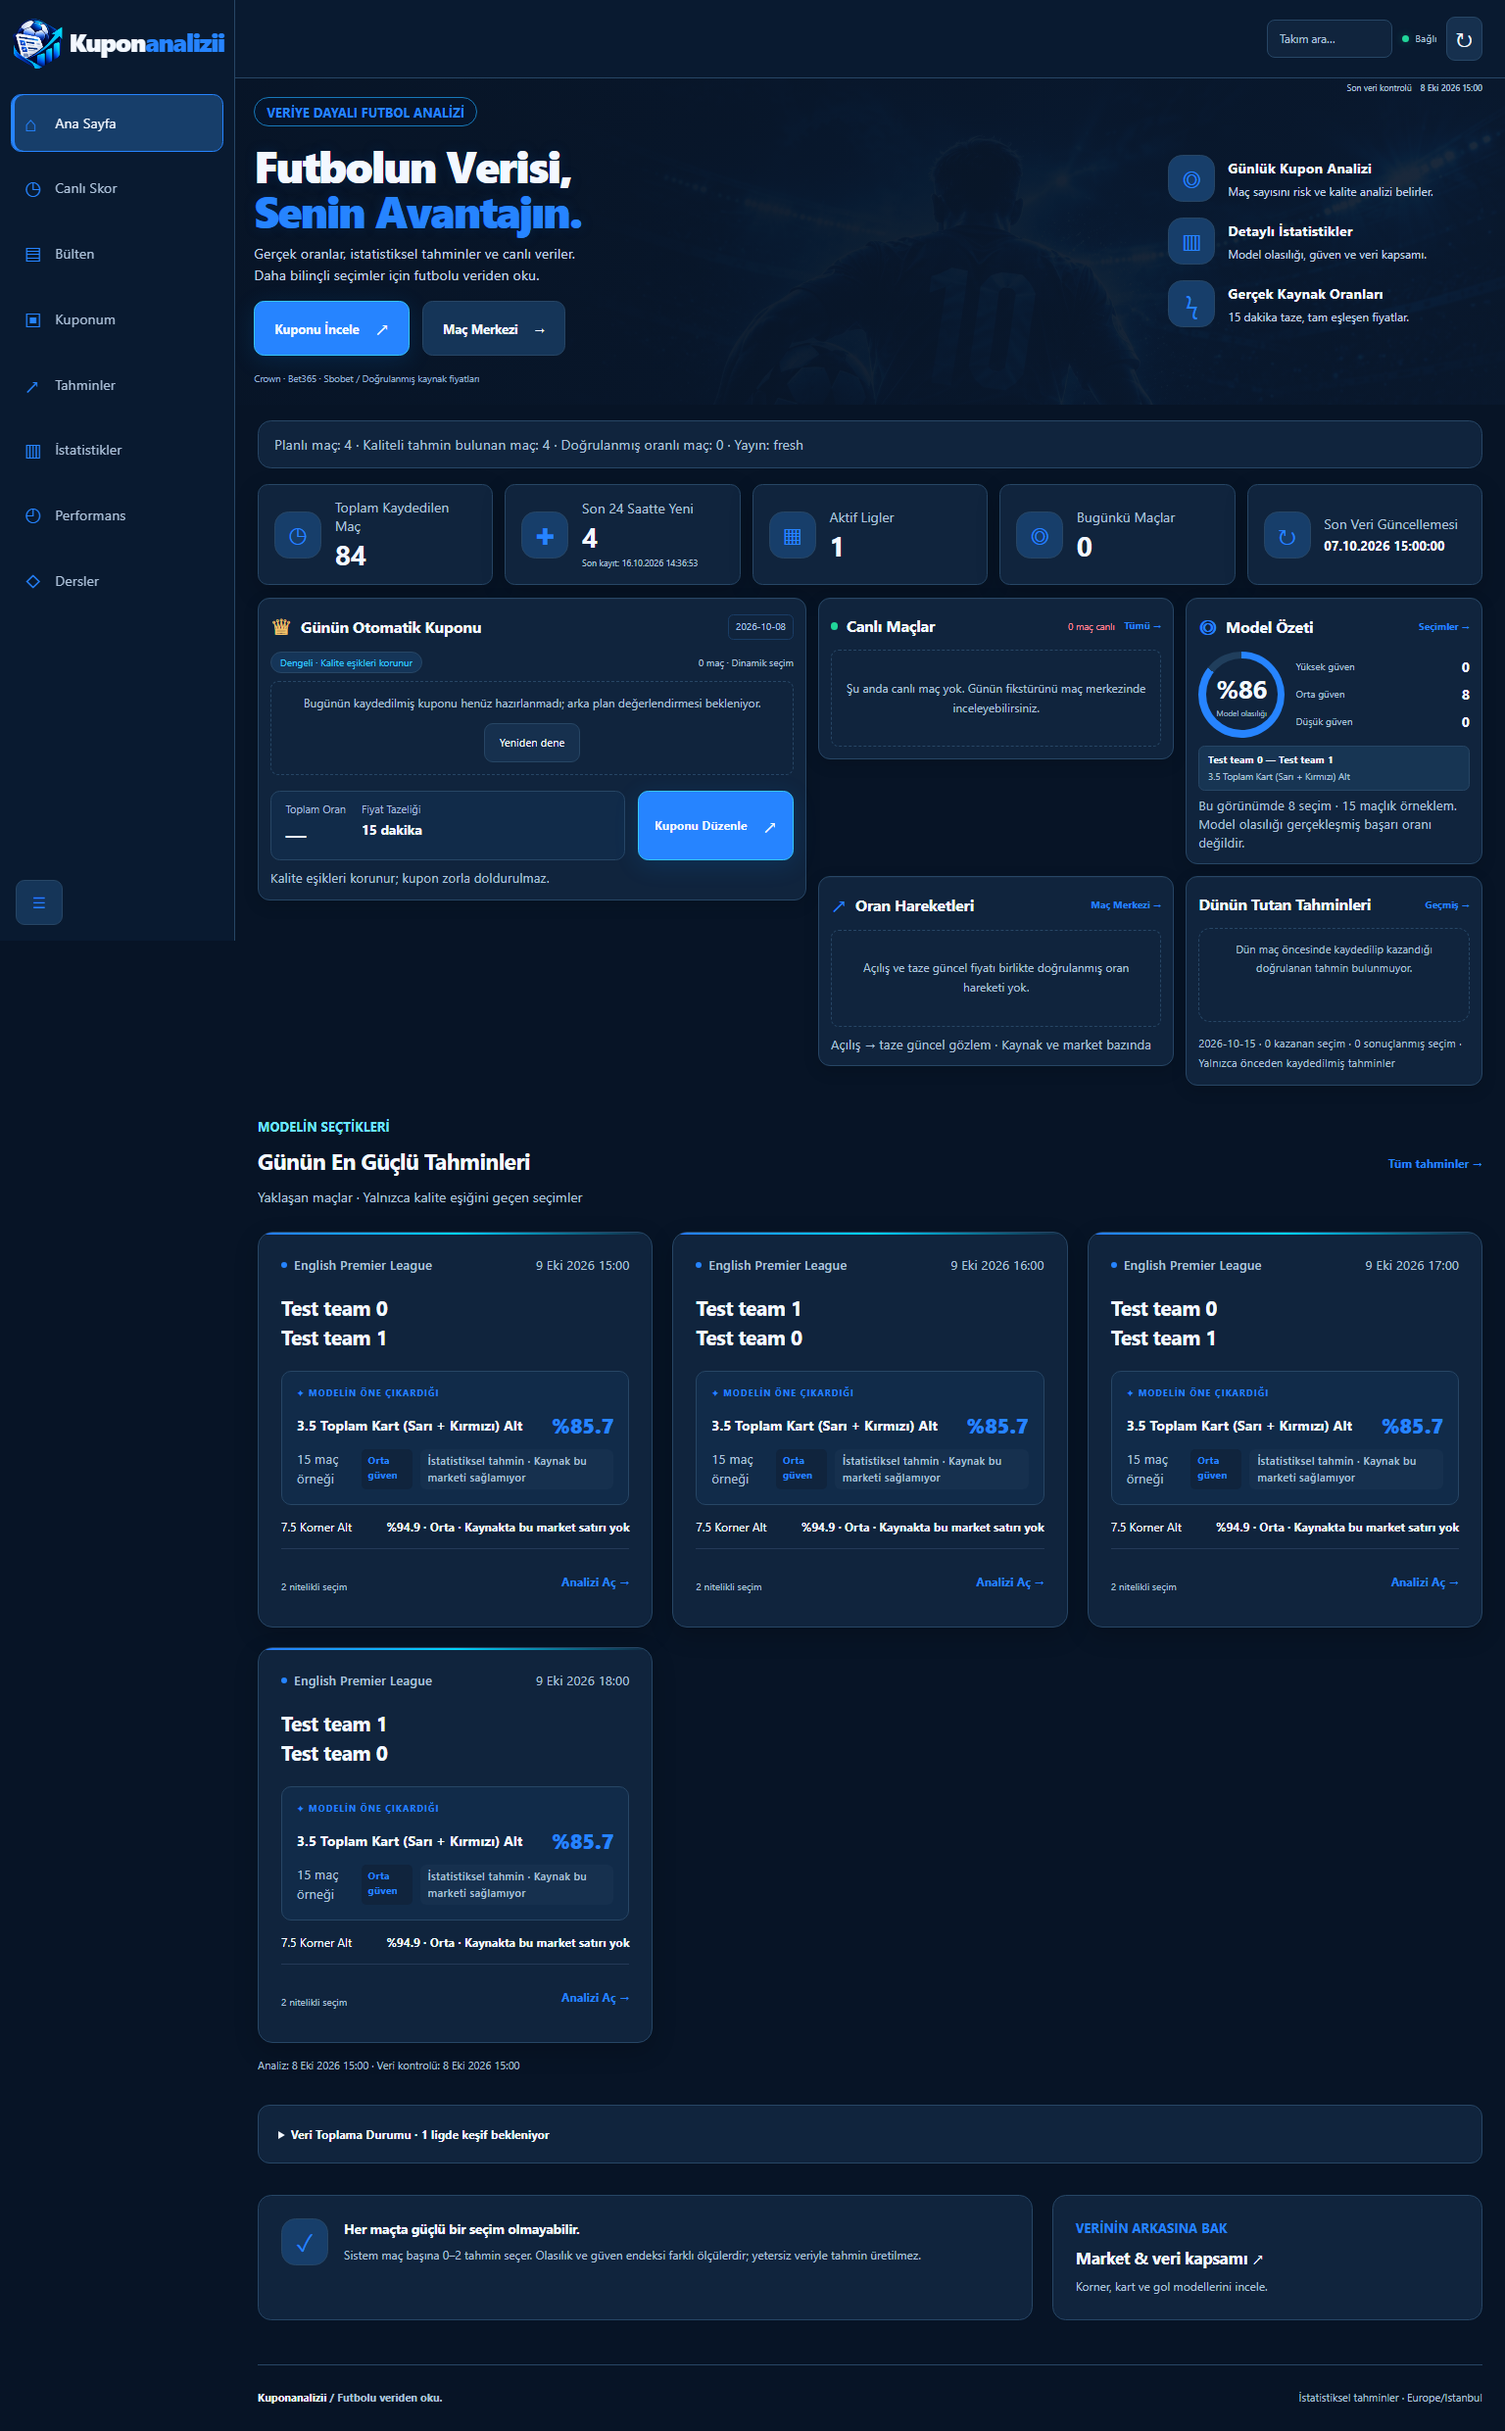
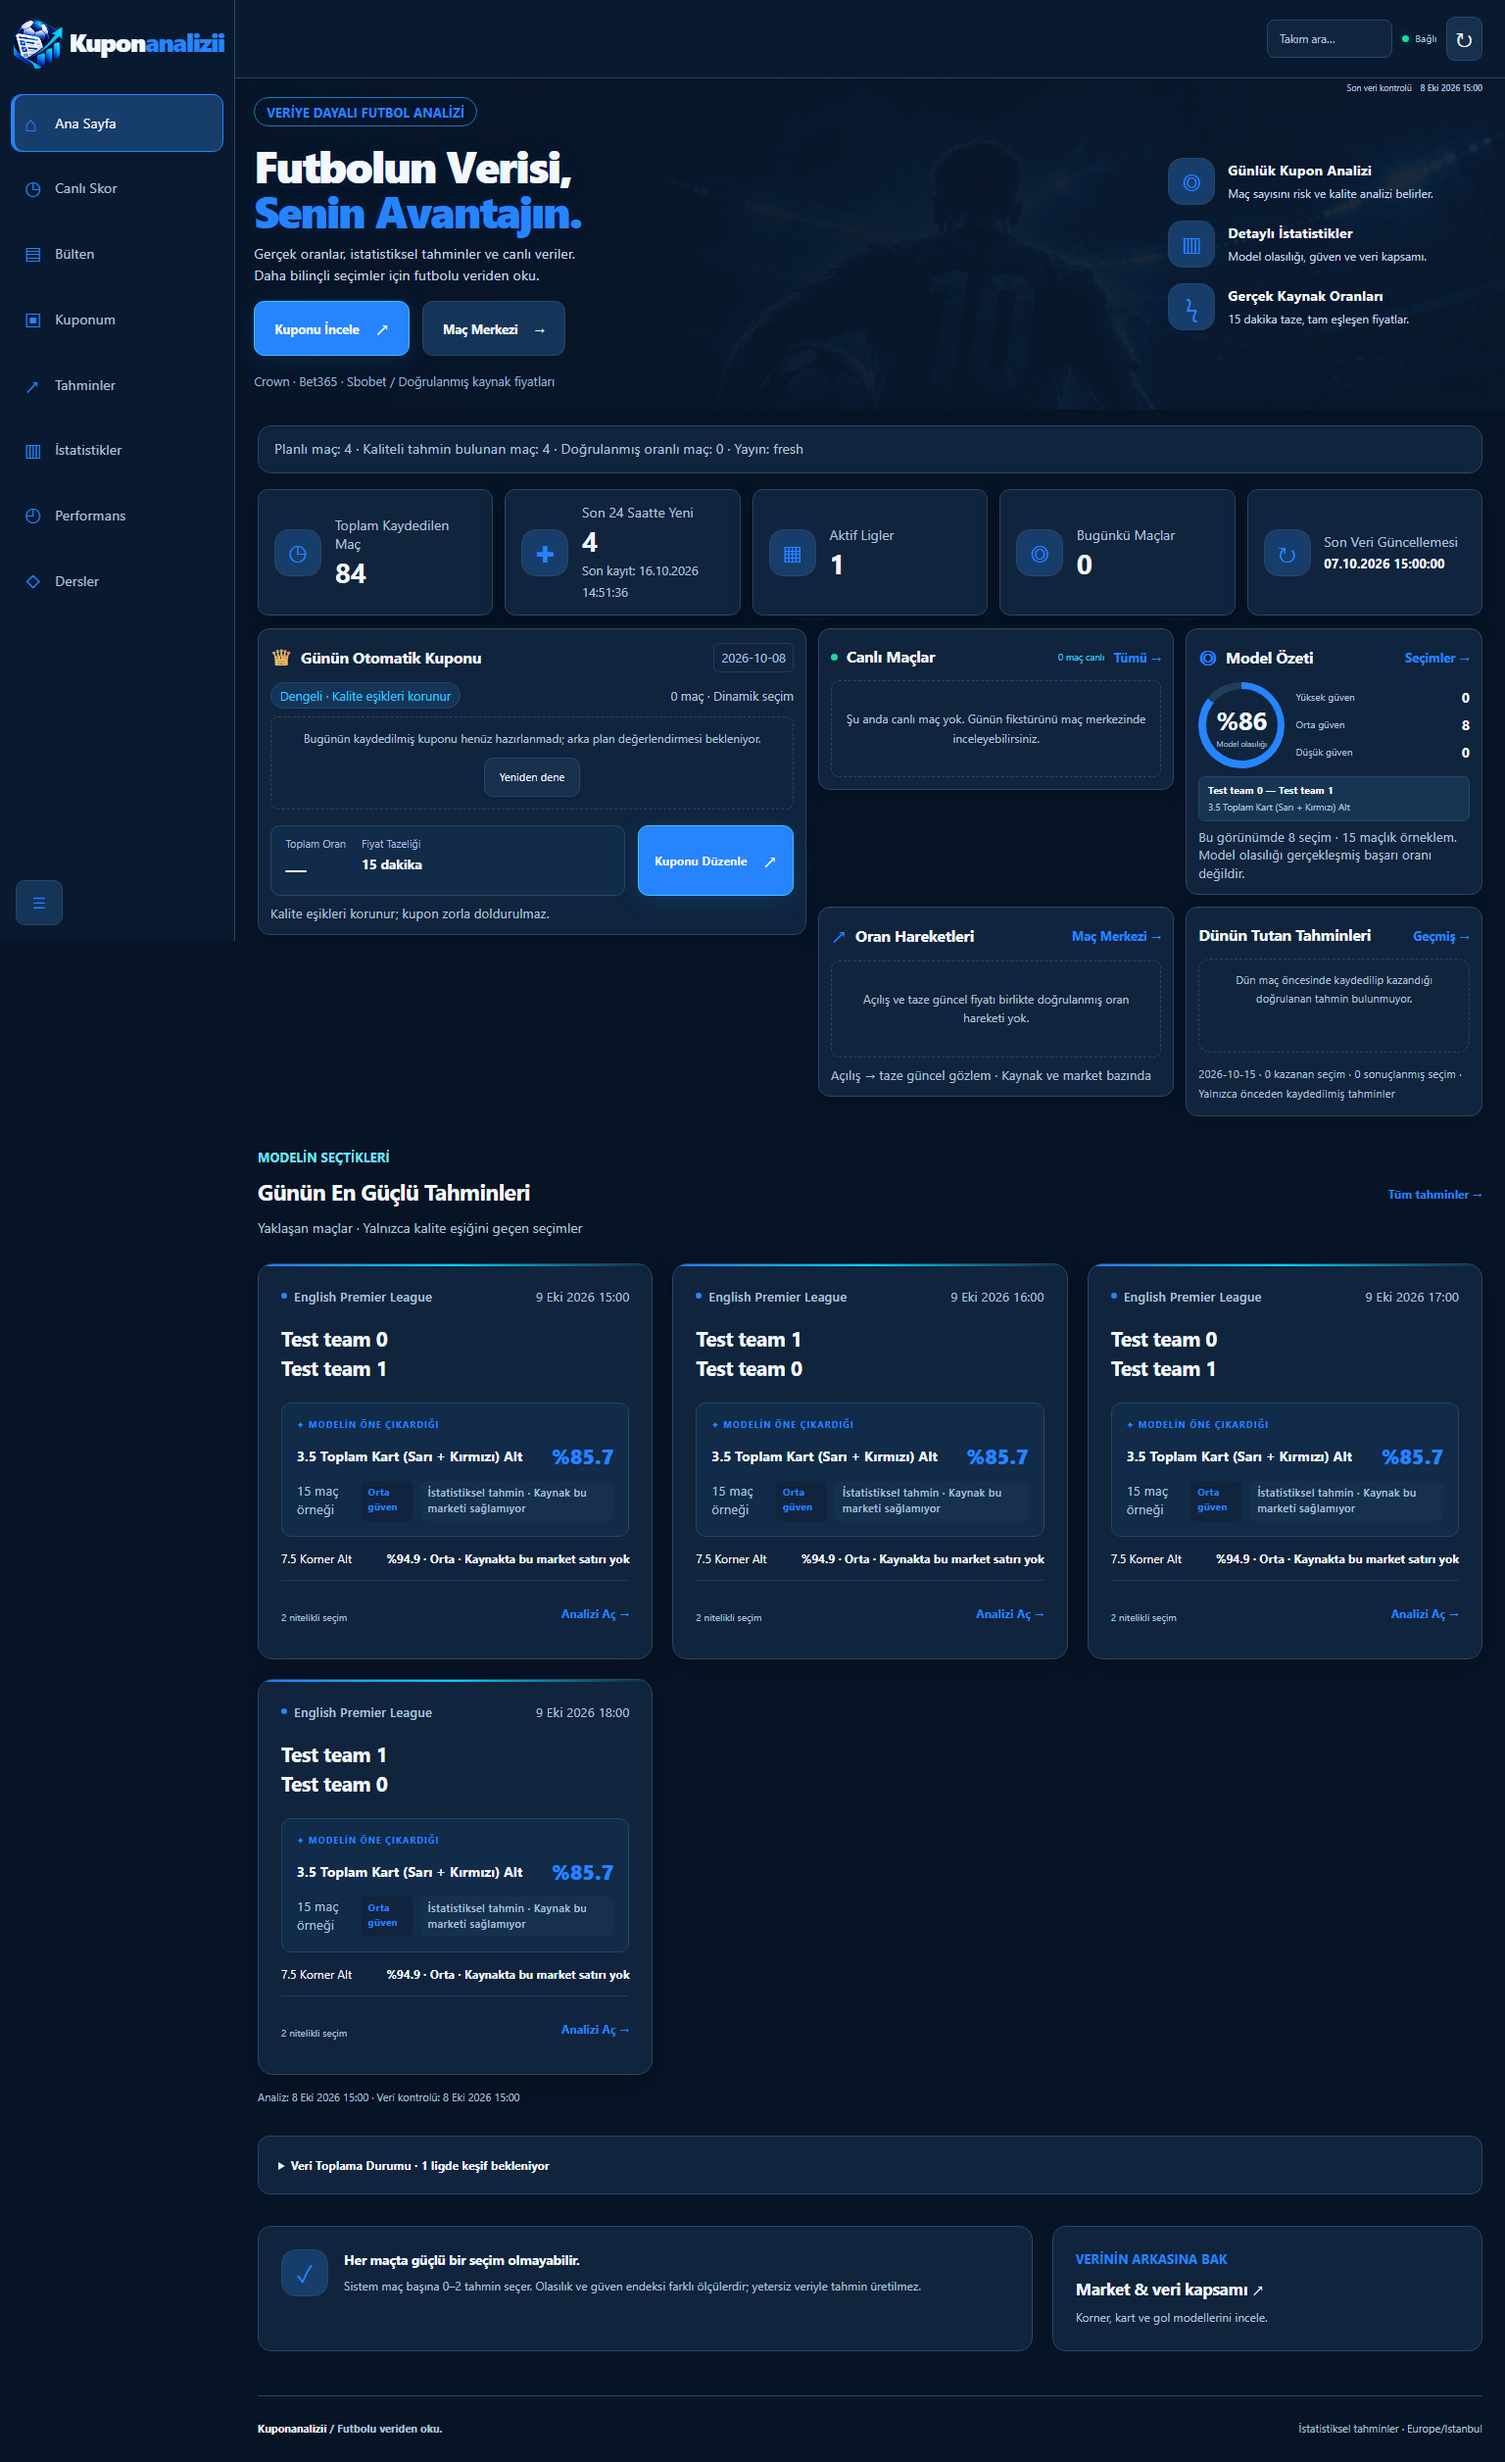
Keep live labels blue and enlarge source metadata text

diff --git a/src/api/dashboard-market.css b/src/api/dashboard-market.css
@@ -1654,3 +1654,7 @@ body:has([data-page=predictions]:not([hidden])) .desktop-nav {background:#091A30
 .quality-tag,.movement-change {background:var(--primary-soft);color:var(--secondary);border-color:var(--border);}
 .analysis-eligible {color:var(--success);}
 [data-page],.analysis-match-card,.prediction-card,.skeleton,.live-dot {animation:none;}
+
+.live-count {color:var(--secondary);}
+#latest-new-match,.panel-caption,.panel-date,.panel-heading .text-link,.hero-footnote,
+.fixture-context small,.fixture-pick small,.fixture-price small,.fixture-quality small {font-size:.8rem;}
